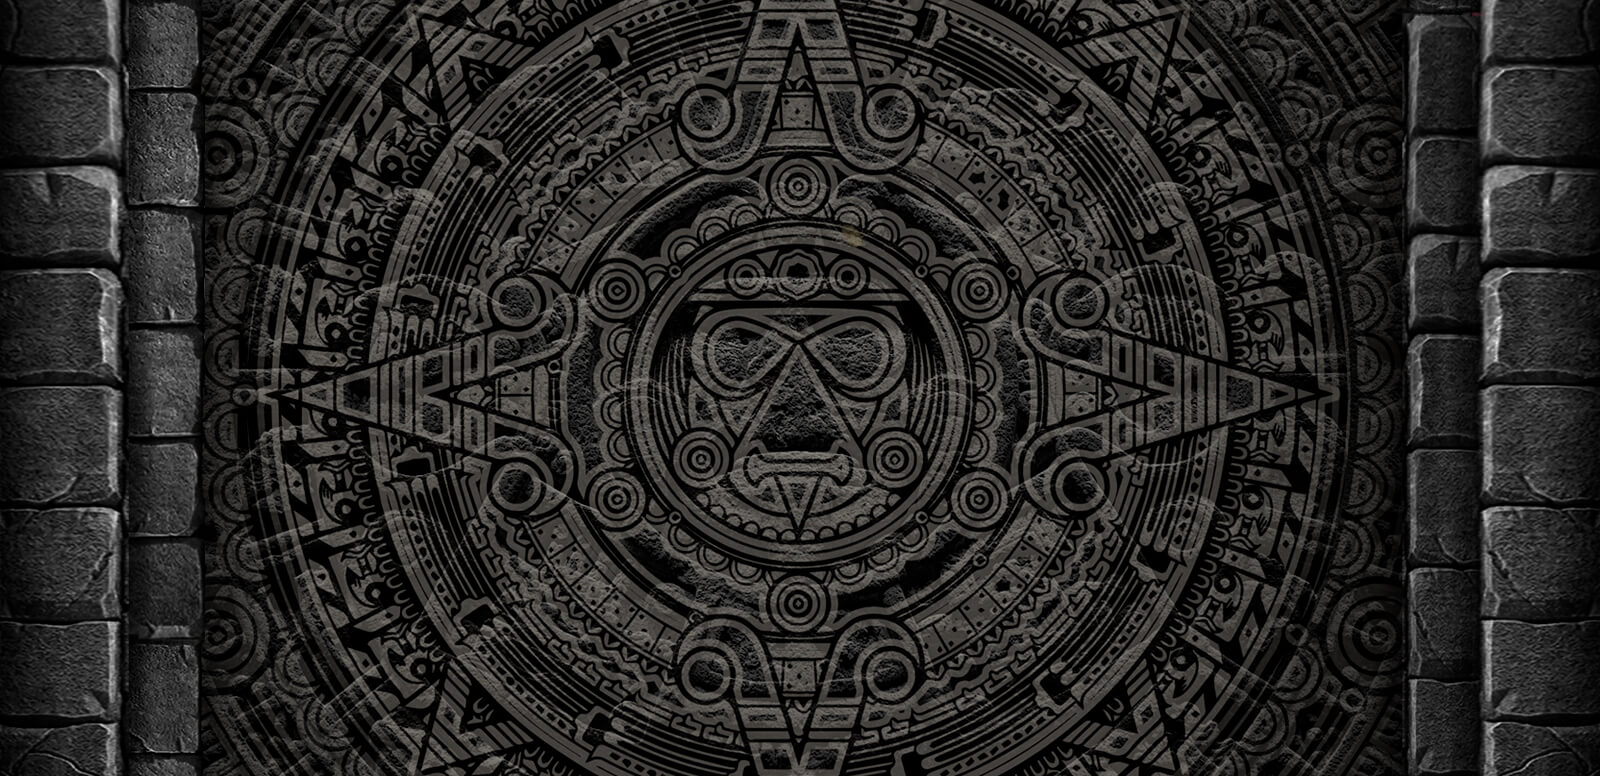
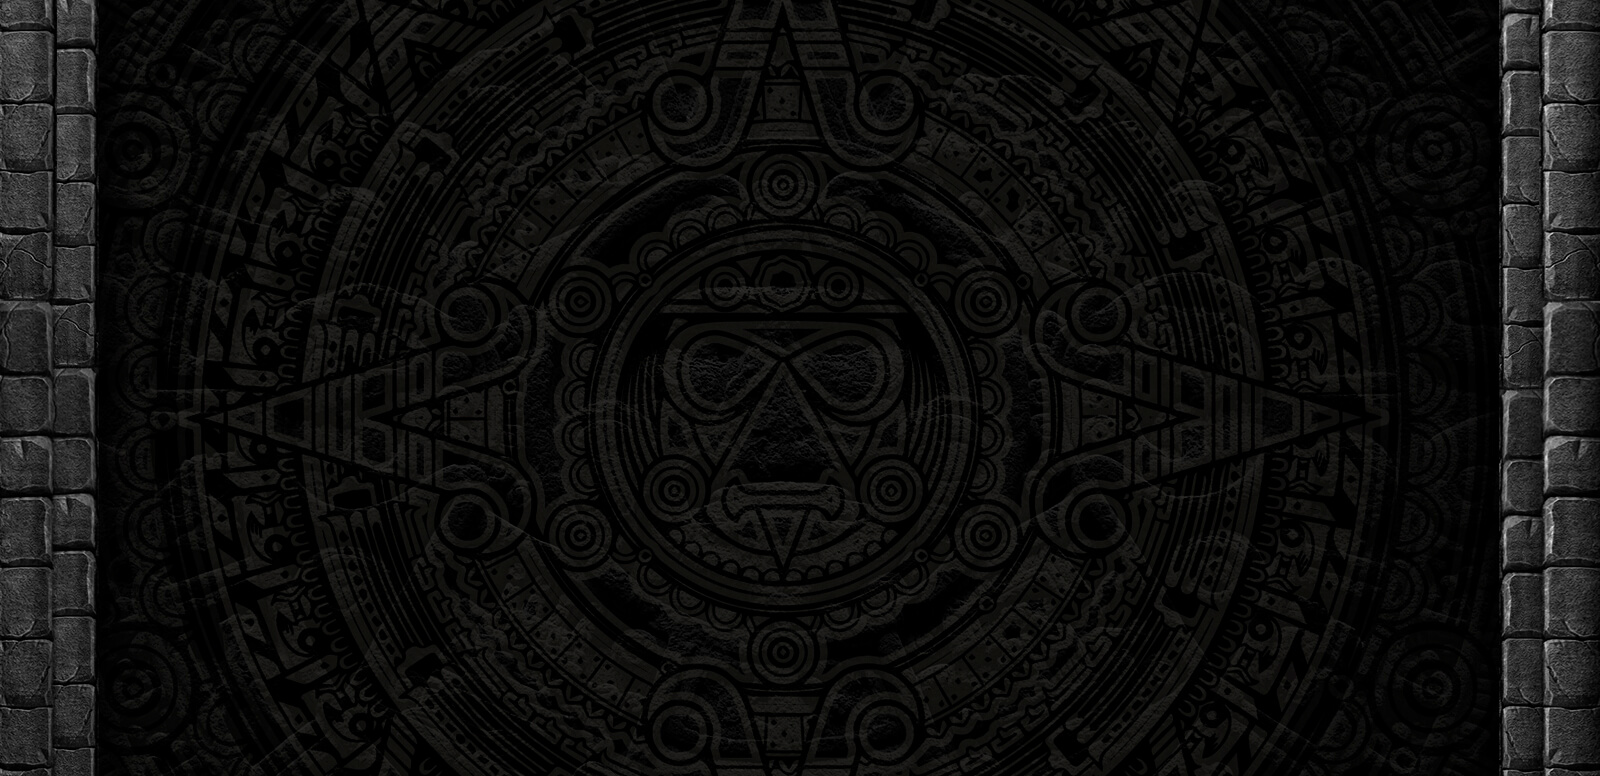
main css and html

diff --git a/css/main-noraza.css b/css/main-noraza.css
@@ -166,7 +166,7 @@ a:focus, button:focus, .btn:focus,
     padding: 0;
 }
 
-.before-after,
+/*.before-after,
 .before {
     position: relative;
 }
@@ -201,7 +201,7 @@ a:focus, button:focus, .btn:focus,
     border-right: 25px solid transparent;
     border-left: 25px solid transparent;
     border-top: 30px solid #fff;
-}
+}*/
 
 .bg-white {
 	background-color:#FFF;
@@ -230,6 +230,8 @@ a:focus, button:focus, .btn:focus,
 }
 
 .body-multiple {
+    background: url(../images/noraza/slider/slider.jpg);
+    background-size: contain;
     position: relative;
     z-index: 1;
 }
@@ -273,12 +275,14 @@ a:focus, button:focus, .btn:focus,
  ========================================================================== */
 
 #navigation .navbar {
-    min-height:0;
-    margin-bottom: 0;
+    background: url(../images/noraza/slider/menu.png);
     border: 0;
+    height: 114px;
+    margin-bottom: 0;
+    min-height:0;
 }
 
-#navigation .navbar:before {
+/*#navigation .navbar:before {
     position: absolute;
     content: "";
     top: 0;
@@ -300,7 +304,7 @@ a:focus, button:focus, .btn:focus,
     border-left: 25px solid transparent;
     border-top: 30px solid #fff;
     z-index: -1;
-}
+}*/
 
 #navigation .navbar-brand {
     margin-right: 90px;
@@ -4362,6 +4366,7 @@ textarea.form-control {
  ========================================================================== */
 
 .footer {
+    background: url(../images/noraza/slider/menu.png);
     padding-top: 20px;
     padding-bottom: 10px;
 }

diff --git a/index.html b/index.html
@@ -27,7 +27,8 @@
         <link rel="stylesheet" href="css/magnific-popup.css">
         <link rel="stylesheet" href="css/owl.carousel.css">
         <link rel="stylesheet" href="css/cubeportfolio.min.css">
-        <link rel="stylesheet" href="css/main.css">
+        <link rel="stylesheet" href="css/main-noraza.css">
+        <!-- <link rel="stylesheet" href="css/main.css"> -->
         <link rel="stylesheet" href="css/responsive.css">
 
 
@@ -198,7 +199,8 @@
             <div class="container">
                 <div class="home-content text-center">
                     <div id="countdown"></div>
-                    <h2>Music Festival</h2>
+                    <img src="images/noraza/slider/logo.png">
+                    <!-- <h2>Music Festival</h2> -->
                     <h3>09 February, 2016, California</h3>
                     <a href="#" class="btn btn-primary">Get a Ticket<i class="fa fa-chevron-circle-right"></i></a>
                     <ul class="social list-inline">
@@ -786,6 +788,7 @@
         <script src="js/jquery.spinner.min.js"></script>
         <script src="js/cubeportfolio.min.js"></script>
         <script src="js/jplayer.source.js"></script>
-        <script src="js/main.js"></script>
+        <script src="js/main-noraza.js"></script>
+        <!-- <script src="js/main.js"></script> -->
     </body>
 </html>

diff --git a/js/main-noraza.js b/js/main-noraza.js
@@ -11,7 +11,7 @@ jQuery(function ($) {
 
         // $(".home-body").backstretch([ "images/slider/slider1.jpg","images/slider/slider2.jpg","images/slider/slider3.jpg"], {fade: 750,duration: 3000});
     
-        $(".body-multiple").backstretch([ "images/slider/slider7.jpg","images/slider/slider8.jpg","images/slider/slider9.jpg"], {fade: 750,duration: 3000});
+        // $(".body-multiple").backstretch(["images/noraza/slider/slider.jpg"], {fade: 750,duration: 3000});
 
         // $(".body-band").backstretch([ "images/slider/slider4.jpg","images/slider/slider5.jpg"], {fade: 750,duration: 3000});
 
